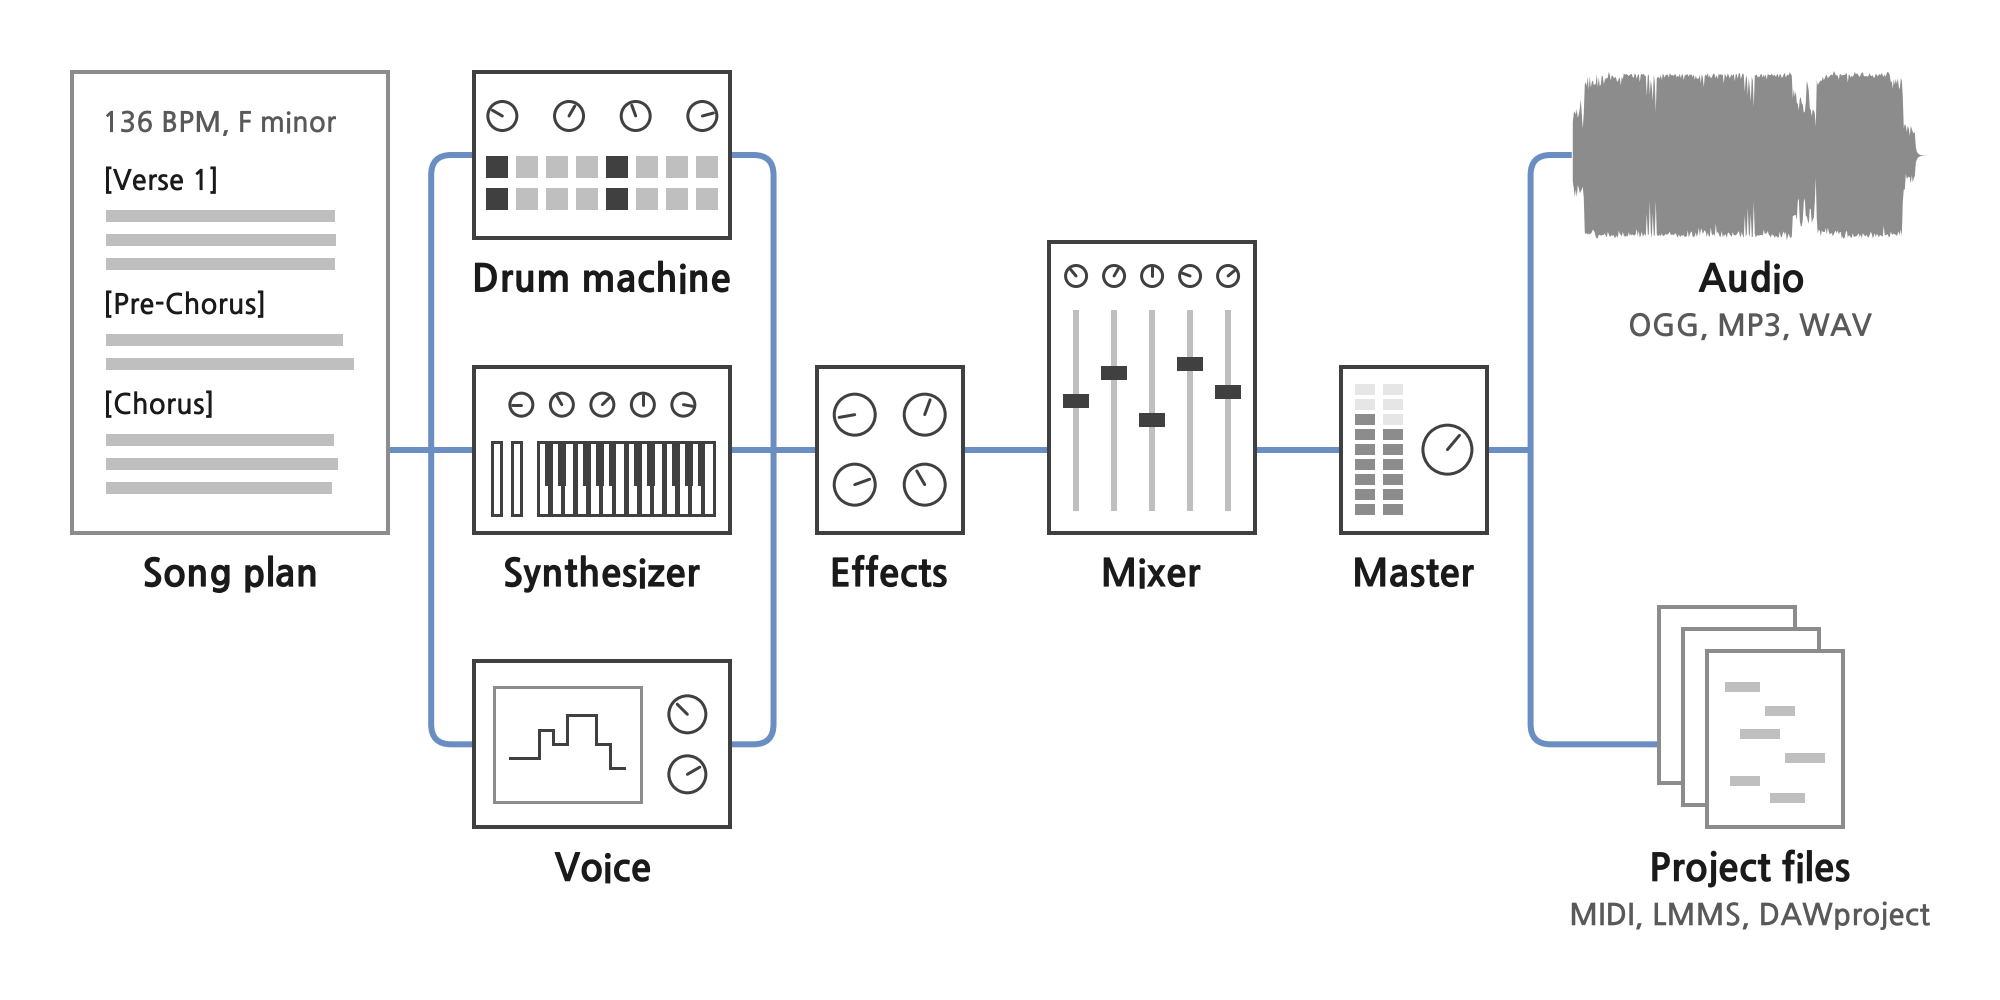
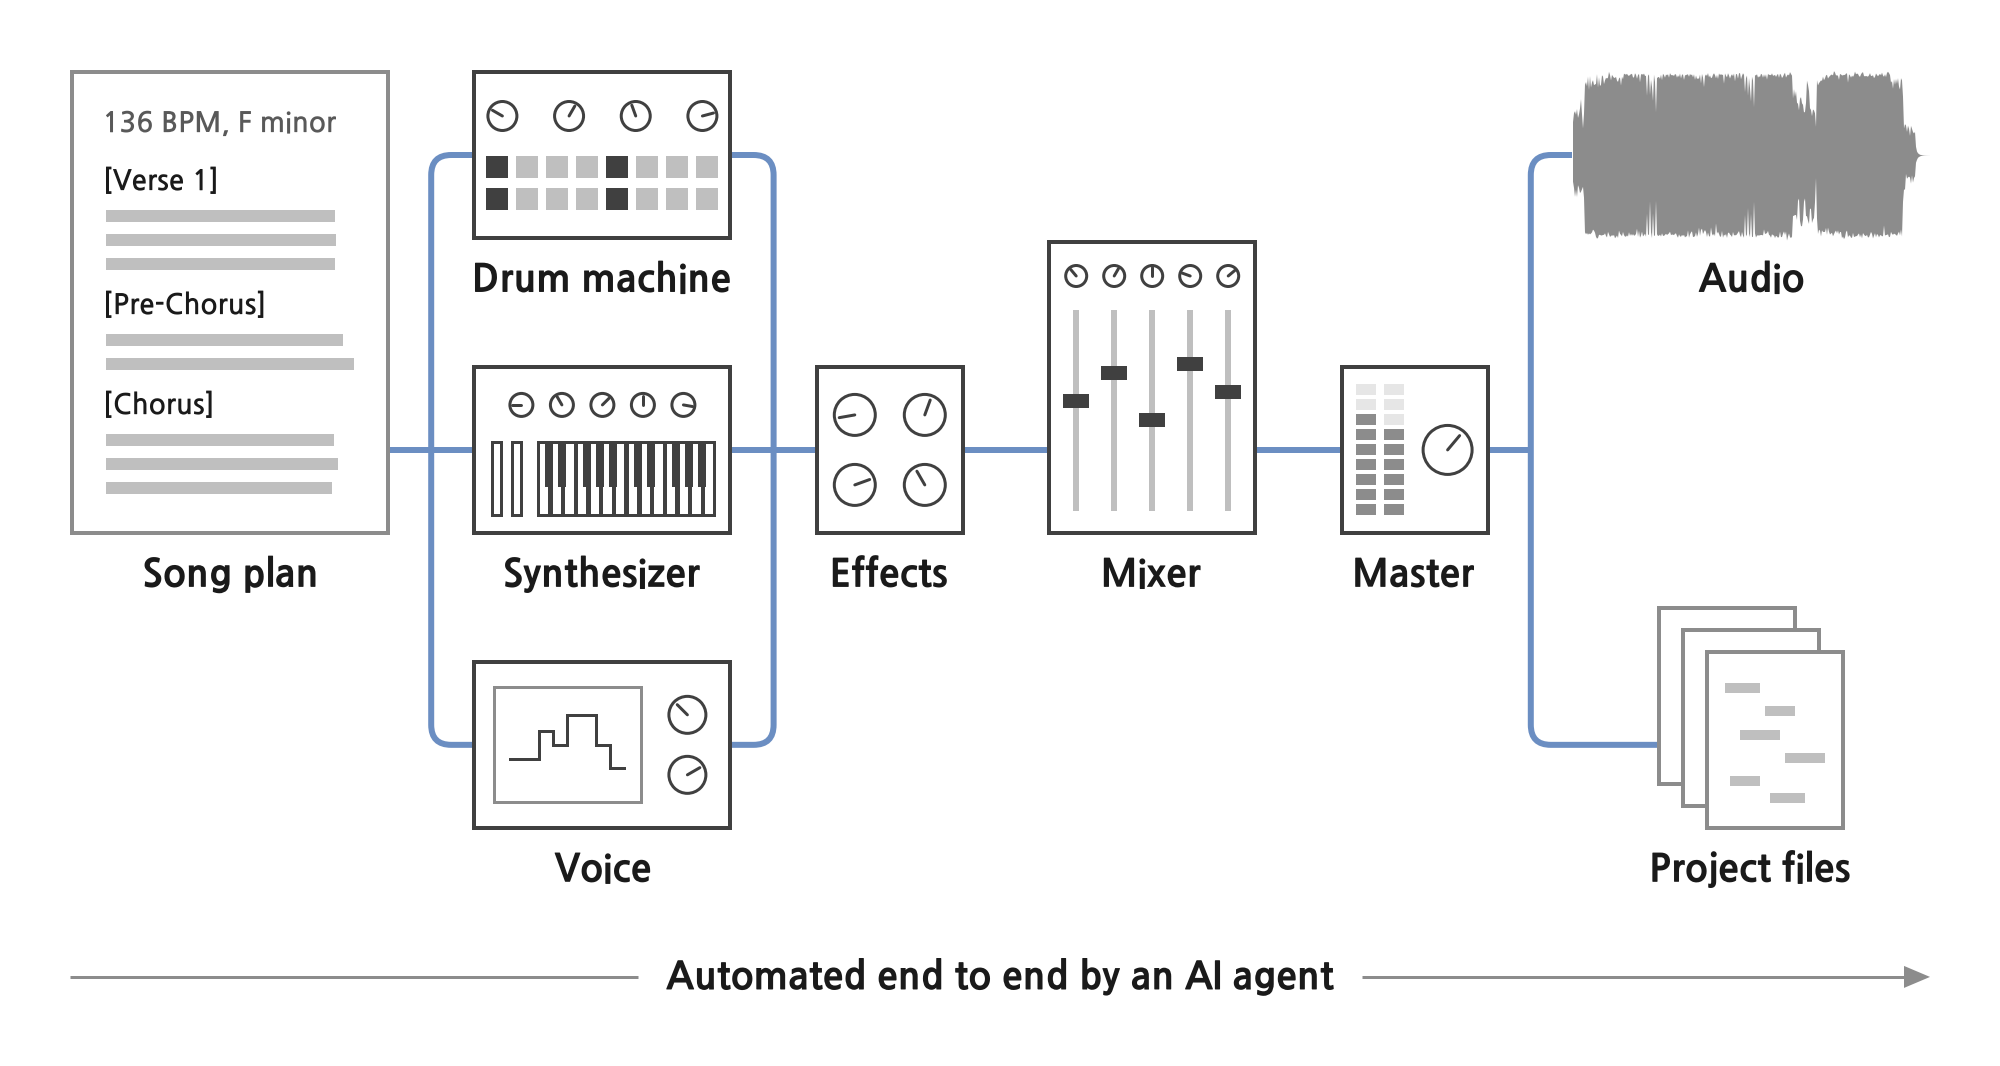
Add automation arrow to the studio chain image
Show who runs the chain: a gray arrow under the whole image, from the
plan sheet to the outputs, labeled "Automated end to end by an AI
agent". The cable keeps the only accent color.

- Remove the file format lines under Audio and Project files
- Keep the device rows and zone gaps; the canvas is now 2000 x 1066
- Update the alt text to name the automation

Claude-Session: https://claude.ai/code/session_01FXFD27t6MRSuVPmmc8PemP

diff --git a/README.md b/README.md
@@ -5,7 +5,7 @@ Music production agent skills that finish songs without diffusion models, follow
 화성, 리듬 같은 음악 이론과 제작 과정을 담은 스킬 지침에 따라 확산 모델 없이 곡을 완성하는 음악 제작 에이전트 스킬 모음입니다. 작곡부터 편곡, 믹싱, 마스터링까지 다룹니다. 보컬은 음성 합성 모델(Kokoro, Piper)의 목소리를 노래로 바꿔 만듭니다. 모든 스킬은 한국어 원본과 영어 번역본을 함께 제공합니다.
 
 <p align="center">
-<img src="assets/readme/studio-chain.png" width="100%" alt="A song plan runs through a drum machine, a synthesizer and a voice, then effects, a mixer and a master, and comes out as audio files and project files">
+<img src="assets/readme/studio-chain.png" width="100%" alt="A song plan runs through a drum machine, a synthesizer and a voice, then effects, a mixer and a master, and comes out as audio and project files, automated end to end by an AI agent">
 </p>
 
 <details>
